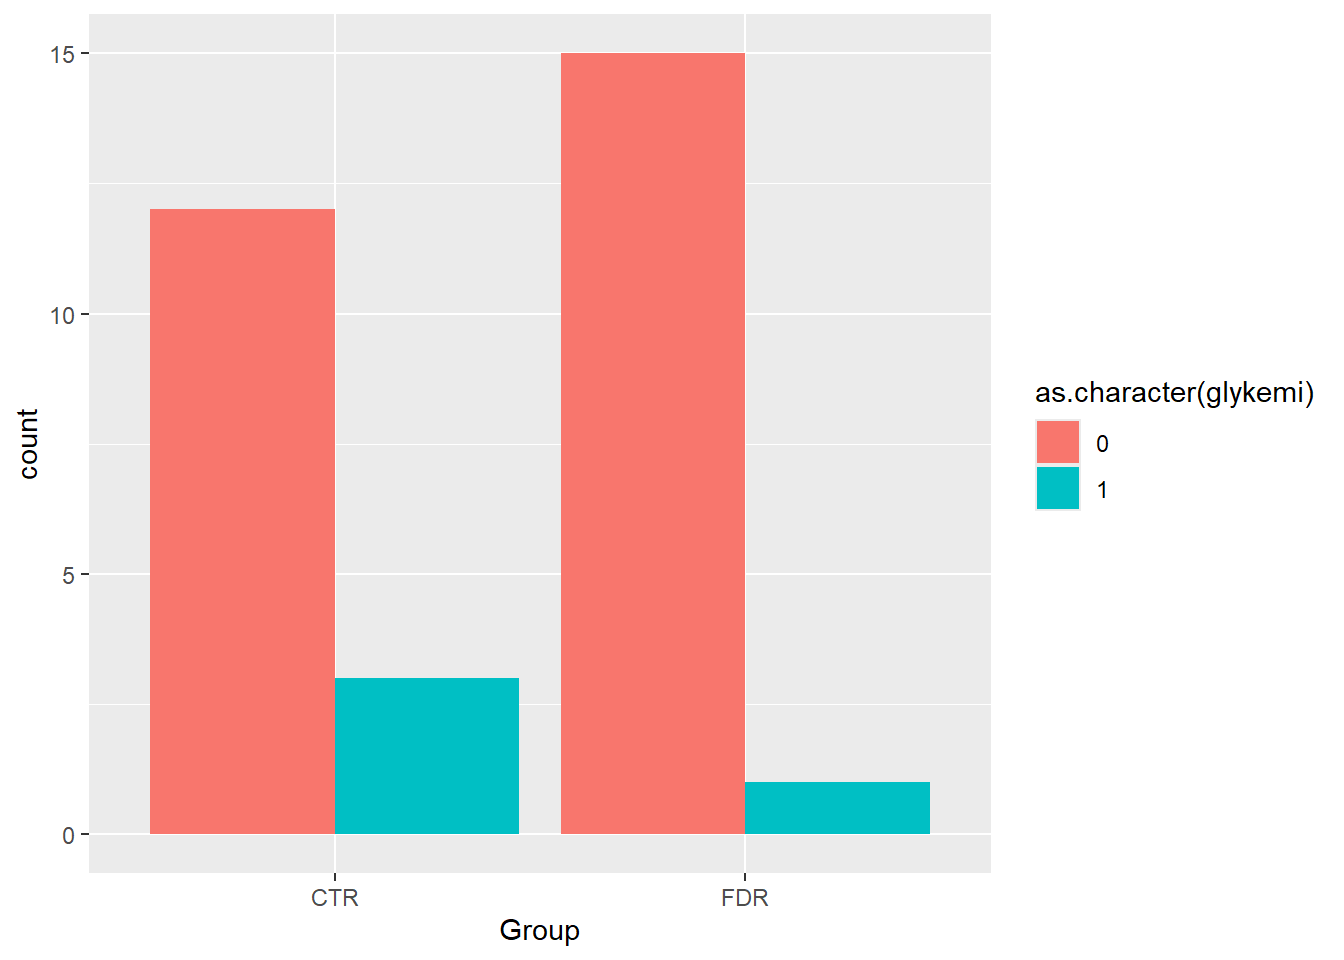
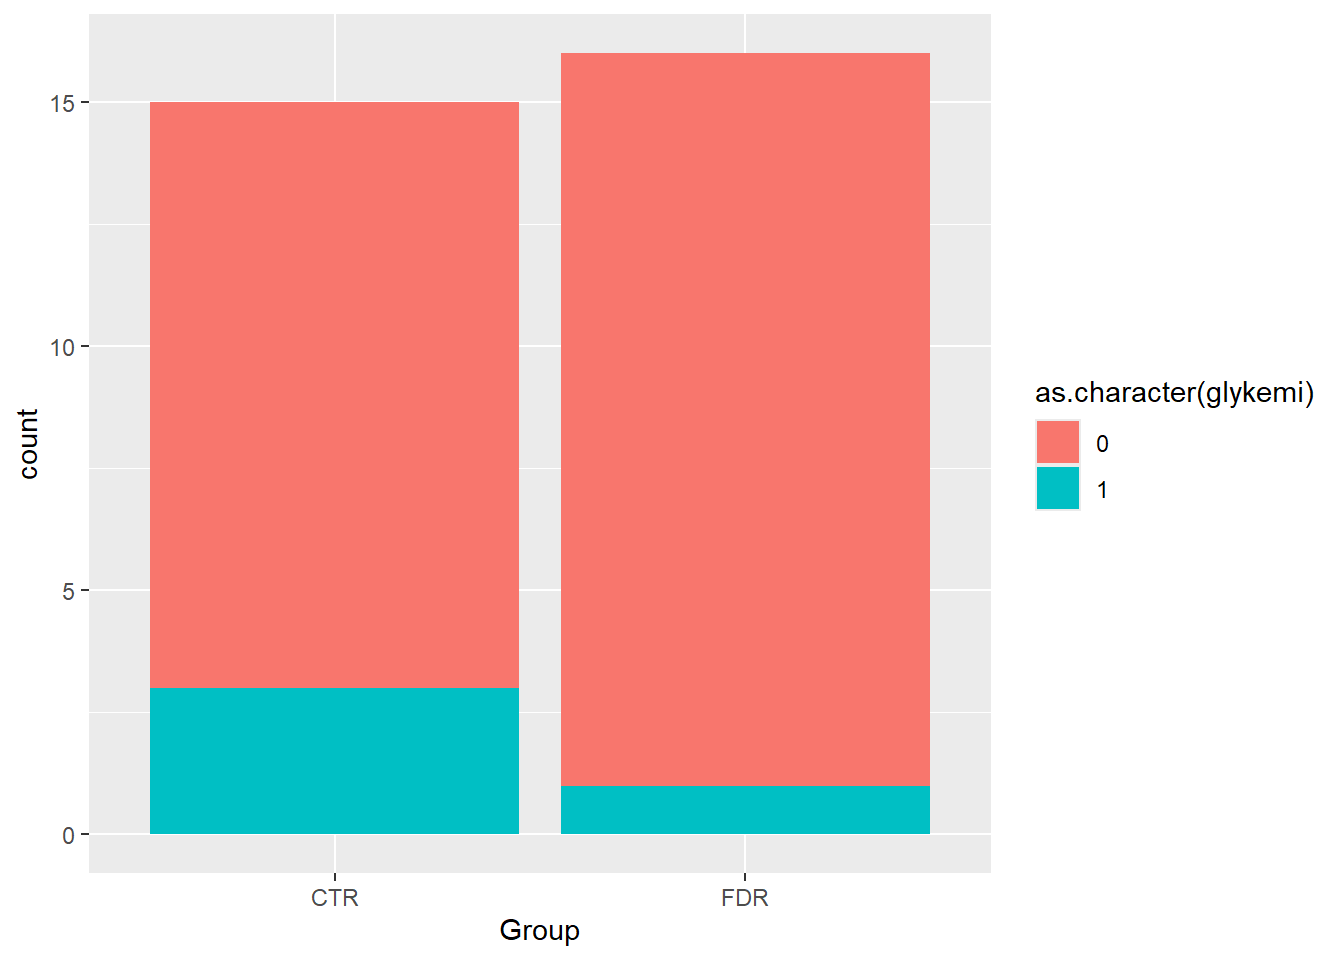
plots and graphs

diff --git a/docs/learining.html b/docs/learining.html
@@ -258,7 +258,7 @@ $ glykemi                  &lt;dbl&gt; 0, 0, 0, 0, 0, 0, 0, 0, 0, 0, 0, 0, 0, 0,
 </div>
 </div>
 <div class="cell">
-<div class="sourceCode cell-code" id="cb10"><pre class="sourceCode r code-with-copy"><code class="sourceCode r"><span id="cb10-1"><a href="#cb10-1" aria-hidden="true" tabindex="-1"></a><span class="fu">ggplot</span>(post_meal_data, <span class="fu">aes</span>(<span class="at">x =</span> BMI)) <span class="sc">+</span> </span>
+<div class="sourceCode cell-code" id="cb10"><pre class="sourceCode r code-with-copy"><code class="sourceCode r"><span id="cb10-1"><a href="#cb10-1" aria-hidden="true" tabindex="-1"></a><span class="fu">ggplot</span>(post_meal_data, <span class="fu">aes</span>(<span class="at">x =</span> BMI)) <span class="sc">+</span></span>
 <span id="cb10-2"><a href="#cb10-2" aria-hidden="true" tabindex="-1"></a>  <span class="fu">geom_histogram</span>()</span></code><button title="Copy to Clipboard" class="code-copy-button"><i class="bi"></i></button></pre></div>
 <div class="cell-output cell-output-stderr">
 <pre><code>`stat_bin()` using `bins = 30`. Pick better value with `binwidth`.</code></pre>
@@ -266,13 +266,13 @@ $ glykemi                  &lt;dbl&gt; 0, 0, 0, 0, 0, 0, 0, 0, 0, 0, 0, 0, 0, 0,
 <div class="cell-output-display">
 <div>
 <figure class="figure">
-<p><img src="learining_files/figure-html/unnamed-chunk-5-1.png" class="img-fluid figure-img" width="672"></p>
+<p><img src="learining_files/figure-html/unnamed-chunk-6-1.png" class="img-fluid figure-img" width="672"></p>
 </figure>
 </div>
 </div>
 </div>
 <div class="cell">
-<div class="sourceCode cell-code" id="cb12"><pre class="sourceCode r code-with-copy"><code class="sourceCode r"><span id="cb12-1"><a href="#cb12-1" aria-hidden="true" tabindex="-1"></a><span class="fu">ggplot</span>(post_meal_data, <span class="fu">aes</span>(<span class="at">x =</span> BMI)) <span class="sc">+</span> </span>
+<div class="sourceCode cell-code" id="cb12"><pre class="sourceCode r code-with-copy"><code class="sourceCode r"><span id="cb12-1"><a href="#cb12-1" aria-hidden="true" tabindex="-1"></a><span class="fu">ggplot</span>(post_meal_data, <span class="fu">aes</span>(<span class="at">x =</span> BMI)) <span class="sc">+</span></span>
 <span id="cb12-2"><a href="#cb12-2" aria-hidden="true" tabindex="-1"></a>  <span class="fu">geom_histogram</span>()</span></code><button title="Copy to Clipboard" class="code-copy-button"><i class="bi"></i></button></pre></div>
 <div class="cell-output cell-output-stderr">
 <pre><code>`stat_bin()` using `bins = 30`. Pick better value with `binwidth`.</code></pre>
@@ -292,7 +292,7 @@ Figure&nbsp;1: Distribution of BMI
 </div>
 <p><a href="#fig-bmi-histo" class="quarto-xref">Figure&nbsp;1</a></p>
 <div class="cell">
-<div class="sourceCode cell-code" id="cb14"><pre class="sourceCode r code-with-copy"><code class="sourceCode r"><span id="cb14-1"><a href="#cb14-1" aria-hidden="true" tabindex="-1"></a><span class="fu">ggplot</span>(post_meal_data, <span class="fu">aes</span>(<span class="at">x =</span> glykemi)) <span class="sc">+</span> </span>
+<div class="sourceCode cell-code" id="cb14"><pre class="sourceCode r code-with-copy"><code class="sourceCode r"><span id="cb14-1"><a href="#cb14-1" aria-hidden="true" tabindex="-1"></a><span class="fu">ggplot</span>(post_meal_data, <span class="fu">aes</span>(<span class="at">x =</span> glykemi)) <span class="sc">+</span></span>
 <span id="cb14-2"><a href="#cb14-2" aria-hidden="true" tabindex="-1"></a>  <span class="fu">geom_bar</span>()</span></code><button title="Copy to Clipboard" class="code-copy-button"><i class="bi"></i></button></pre></div>
 <div class="cell-output-display">
 <div id="fig-glykemi-bar" class="quarto-float quarto-figure quarto-figure-center anchored">
@@ -309,7 +309,8 @@ Figure&nbsp;2: Glykemi
 </div>
 <div class="cell">
 <div class="sourceCode cell-code" id="cb15"><pre class="sourceCode r code-with-copy"><code class="sourceCode r"><span id="cb15-1"><a href="#cb15-1" aria-hidden="true" tabindex="-1"></a>post_meal_data <span class="sc">|&gt;</span></span>
-<span id="cb15-2"><a href="#cb15-2" aria-hidden="true" tabindex="-1"></a>  <span class="fu">ggplot</span>(<span class="fu">aes</span>(<span class="at">x =</span> Group, <span class="at">fill =</span> glykemi)) <span class="sc">+</span> <span class="fu">geom_bar</span>()</span></code><button title="Copy to Clipboard" class="code-copy-button"><i class="bi"></i></button></pre></div>
+<span id="cb15-2"><a href="#cb15-2" aria-hidden="true" tabindex="-1"></a>  <span class="fu">ggplot</span>(<span class="fu">aes</span>(<span class="at">x =</span> Group, <span class="at">fill =</span> glykemi)) <span class="sc">+</span></span>
+<span id="cb15-3"><a href="#cb15-3" aria-hidden="true" tabindex="-1"></a>  <span class="fu">geom_bar</span>()</span></code><button title="Copy to Clipboard" class="code-copy-button"><i class="bi"></i></button></pre></div>
 <div class="cell-output cell-output-stderr">
 <pre><code>Warning: The following aesthetics were dropped during statistical transformation: fill.
 ℹ This can happen when ggplot fails to infer the correct grouping structure in
@@ -320,31 +321,31 @@ Figure&nbsp;2: Glykemi
 <div class="cell-output-display">
 <div>
 <figure class="figure">
-<p><img src="learining_files/figure-html/unnamed-chunk-8-1.png" class="img-fluid figure-img" width="672"></p>
-</figure>
-</div>
-</div>
-</div>
-<div class="cell">
-<div class="sourceCode cell-code" id="cb17"><pre class="sourceCode r code-with-copy"><code class="sourceCode r"><span id="cb17-1"><a href="#cb17-1" aria-hidden="true" tabindex="-1"></a>post_meal_data <span class="sc">|&gt;</span></span>
-<span id="cb17-2"><a href="#cb17-2" aria-hidden="true" tabindex="-1"></a>  <span class="fu">ggplot</span>(<span class="fu">aes</span>(<span class="at">x =</span> Group, <span class="at">fill =</span> <span class="fu">as.character</span>(glykemi))) <span class="sc">+</span> </span>
-<span id="cb17-3"><a href="#cb17-3" aria-hidden="true" tabindex="-1"></a>  <span class="fu">geom_bar</span>()</span></code><button title="Copy to Clipboard" class="code-copy-button"><i class="bi"></i></button></pre></div>
-<div class="cell-output-display">
-<div>
-<figure class="figure">
 <p><img src="learining_files/figure-html/unnamed-chunk-9-1.png" class="img-fluid figure-img" width="672"></p>
 </figure>
 </div>
 </div>
 </div>
 <div class="cell">
-<div class="sourceCode cell-code" id="cb18"><pre class="sourceCode r code-with-copy"><code class="sourceCode r"><span id="cb18-1"><a href="#cb18-1" aria-hidden="true" tabindex="-1"></a>post_meal_data <span class="sc">|&gt;</span></span>
-<span id="cb18-2"><a href="#cb18-2" aria-hidden="true" tabindex="-1"></a>  <span class="fu">ggplot</span>(<span class="fu">aes</span>(<span class="at">x =</span> Group, <span class="at">fill =</span> <span class="fu">as.character</span>(glykemi))) <span class="sc">+</span> </span>
-<span id="cb18-3"><a href="#cb18-3" aria-hidden="true" tabindex="-1"></a>  <span class="fu">geom_bar</span>(<span class="at">position =</span> <span class="fu">position_dodge</span>())</span></code><button title="Copy to Clipboard" class="code-copy-button"><i class="bi"></i></button></pre></div>
+<div class="sourceCode cell-code" id="cb17"><pre class="sourceCode r code-with-copy"><code class="sourceCode r"><span id="cb17-1"><a href="#cb17-1" aria-hidden="true" tabindex="-1"></a>post_meal_data <span class="sc">|&gt;</span></span>
+<span id="cb17-2"><a href="#cb17-2" aria-hidden="true" tabindex="-1"></a>  <span class="fu">ggplot</span>(<span class="fu">aes</span>(<span class="at">x =</span> Group, <span class="at">fill =</span> <span class="fu">as.character</span>(glykemi))) <span class="sc">+</span></span>
+<span id="cb17-3"><a href="#cb17-3" aria-hidden="true" tabindex="-1"></a>  <span class="fu">geom_bar</span>()</span></code><button title="Copy to Clipboard" class="code-copy-button"><i class="bi"></i></button></pre></div>
 <div class="cell-output-display">
 <div>
 <figure class="figure">
 <p><img src="learining_files/figure-html/unnamed-chunk-10-1.png" class="img-fluid figure-img" width="672"></p>
+</figure>
+</div>
+</div>
+</div>
+<div class="cell">
+<div class="sourceCode cell-code" id="cb18"><pre class="sourceCode r code-with-copy"><code class="sourceCode r"><span id="cb18-1"><a href="#cb18-1" aria-hidden="true" tabindex="-1"></a>post_meal_data <span class="sc">|&gt;</span></span>
+<span id="cb18-2"><a href="#cb18-2" aria-hidden="true" tabindex="-1"></a>  <span class="fu">ggplot</span>(<span class="fu">aes</span>(<span class="at">x =</span> Group, <span class="at">fill =</span> <span class="fu">as.character</span>(glykemi))) <span class="sc">+</span></span>
+<span id="cb18-3"><a href="#cb18-3" aria-hidden="true" tabindex="-1"></a>  <span class="fu">geom_bar</span>(<span class="at">position =</span> <span class="fu">position_dodge</span>())</span></code><button title="Copy to Clipboard" class="code-copy-button"><i class="bi"></i></button></pre></div>
+<div class="cell-output-display">
+<div>
+<figure class="figure">
+<p><img src="learining_files/figure-html/unnamed-chunk-11-1.png" class="img-fluid figure-img" width="672"></p>
 </figure>
 </div>
 </div>
@@ -354,22 +355,11 @@ Figure&nbsp;2: Glykemi
 <section id="putting-two-plots-side-by-side" class="level2">
 <h2 class="anchored" data-anchor-id="putting-two-plots-side-by-side">Putting two plots side by side</h2>
 <div class="cell">
-<div class="sourceCode cell-code" id="cb19"><pre class="sourceCode r code-with-copy"><code class="sourceCode r"><span id="cb19-1"><a href="#cb19-1" aria-hidden="true" tabindex="-1"></a><span class="fu">ggplot</span>(post_meal_data, <span class="fu">aes</span>(<span class="at">x =</span> BMI)) <span class="sc">+</span> </span>
+<div class="sourceCode cell-code" id="cb19"><pre class="sourceCode r code-with-copy"><code class="sourceCode r"><span id="cb19-1"><a href="#cb19-1" aria-hidden="true" tabindex="-1"></a><span class="fu">ggplot</span>(post_meal_data, <span class="fu">aes</span>(<span class="at">x =</span> BMI)) <span class="sc">+</span></span>
 <span id="cb19-2"><a href="#cb19-2" aria-hidden="true" tabindex="-1"></a>  <span class="fu">geom_histogram</span>()</span></code><button title="Copy to Clipboard" class="code-copy-button"><i class="bi"></i></button></pre></div>
 <div class="cell-output cell-output-stderr">
 <pre><code>`stat_bin()` using `bins = 30`. Pick better value with `binwidth`.</code></pre>
 </div>
-<div class="cell-output-display">
-<div>
-<figure class="figure">
-<p><img src="learining_files/figure-html/unnamed-chunk-11-1.png" class="img-fluid figure-img" width="672"></p>
-</figure>
-</div>
-</div>
-</div>
-<div class="cell">
-<div class="sourceCode cell-code" id="cb21"><pre class="sourceCode r code-with-copy"><code class="sourceCode r"><span id="cb21-1"><a href="#cb21-1" aria-hidden="true" tabindex="-1"></a><span class="fu">ggplot</span>(post_meal_data, <span class="fu">aes</span>(<span class="at">x =</span> glykemi)) <span class="sc">+</span> </span>
-<span id="cb21-2"><a href="#cb21-2" aria-hidden="true" tabindex="-1"></a>  <span class="fu">geom_bar</span>()</span></code><button title="Copy to Clipboard" class="code-copy-button"><i class="bi"></i></button></pre></div>
 <div class="cell-output-display">
 <div>
 <figure class="figure">
@@ -378,12 +368,23 @@ Figure&nbsp;2: Glykemi
 </div>
 </div>
 </div>
-<div class="sourceCode cell-code" id="cb22"><pre class="sourceCode r code-with-copy"><code class="sourceCode r"><span id="cb22-1"><a href="#cb22-1" aria-hidden="true" tabindex="-1"></a><span class="fu">ggplot</span>(post_meal_data, <span class="fu">aes</span>(<span class="at">x =</span> BMI)) <span class="sc">+</span> </span>
+<div class="cell">
+<div class="sourceCode cell-code" id="cb21"><pre class="sourceCode r code-with-copy"><code class="sourceCode r"><span id="cb21-1"><a href="#cb21-1" aria-hidden="true" tabindex="-1"></a><span class="fu">ggplot</span>(post_meal_data, <span class="fu">aes</span>(<span class="at">x =</span> glykemi)) <span class="sc">+</span></span>
+<span id="cb21-2"><a href="#cb21-2" aria-hidden="true" tabindex="-1"></a>  <span class="fu">geom_bar</span>()</span></code><button title="Copy to Clipboard" class="code-copy-button"><i class="bi"></i></button></pre></div>
+<div class="cell-output-display">
+<div>
+<figure class="figure">
+<p><img src="learining_files/figure-html/unnamed-chunk-13-1.png" class="img-fluid figure-img" width="672"></p>
+</figure>
+</div>
+</div>
+</div>
+<div class="sourceCode cell-code" id="cb22"><pre class="sourceCode r code-with-copy"><code class="sourceCode r"><span id="cb22-1"><a href="#cb22-1" aria-hidden="true" tabindex="-1"></a><span class="fu">ggplot</span>(post_meal_data, <span class="fu">aes</span>(<span class="at">x =</span> BMI)) <span class="sc">+</span></span>
 <span id="cb22-2"><a href="#cb22-2" aria-hidden="true" tabindex="-1"></a>  <span class="fu">geom_histogram</span>()</span></code><button title="Copy to Clipboard" class="code-copy-button"><i class="bi"></i></button></pre></div>
 <div class="cell-output cell-output-stderr">
 <pre><code>`stat_bin()` using `bins = 30`. Pick better value with `binwidth`.</code></pre>
 </div>
-<div class="sourceCode cell-code" id="cb24"><pre class="sourceCode r code-with-copy"><code class="sourceCode r"><span id="cb24-1"><a href="#cb24-1" aria-hidden="true" tabindex="-1"></a><span class="fu">ggplot</span>(post_meal_data, <span class="fu">aes</span>(<span class="at">x =</span> glykemi)) <span class="sc">+</span> </span>
+<div class="sourceCode cell-code" id="cb24"><pre class="sourceCode r code-with-copy"><code class="sourceCode r"><span id="cb24-1"><a href="#cb24-1" aria-hidden="true" tabindex="-1"></a><span class="fu">ggplot</span>(post_meal_data, <span class="fu">aes</span>(<span class="at">x =</span> glykemi)) <span class="sc">+</span></span>
 <span id="cb24-2"><a href="#cb24-2" aria-hidden="true" tabindex="-1"></a>  <span class="fu">geom_bar</span>()</span></code><button title="Copy to Clipboard" class="code-copy-button"><i class="bi"></i></button></pre></div>
 <div id="fig-bmi-glycemia" class="quarto-layout-panel">
 <figure class="quarto-float quarto-float-fig figure">
@@ -420,6 +421,56 @@ Figure&nbsp;3: BMI and glycemia, side by side
 </figcaption>
 </figure>
 </div>
+</section>
+<section id="plotting-two-continuous-variables" class="level2">
+<h2 class="anchored" data-anchor-id="plotting-two-continuous-variables">Plotting two continuous variables</h2>
+<div class="cell">
+<div class="sourceCode cell-code" id="cb25"><pre class="sourceCode r code-with-copy"><code class="sourceCode r"><span id="cb25-1"><a href="#cb25-1" aria-hidden="true" tabindex="-1"></a><span class="fu">ggplot</span>(post_meal_data, <span class="fu">aes</span>(<span class="at">x =</span> BMI, <span class="at">y =</span> auc_pg)) <span class="sc">+</span></span>
+<span id="cb25-2"><a href="#cb25-2" aria-hidden="true" tabindex="-1"></a>  <span class="fu">geom_point</span>()</span></code><button title="Copy to Clipboard" class="code-copy-button"><i class="bi"></i></button></pre></div>
+<div class="cell-output-display">
+<div>
+<figure class="figure">
+<p><img src="learining_files/figure-html/unnamed-chunk-14-1.png" class="img-fluid figure-img" width="672"></p>
+</figure>
+</div>
+</div>
+</div>
+<div class="cell">
+<div class="sourceCode cell-code" id="cb26"><pre class="sourceCode r code-with-copy"><code class="sourceCode r"><span id="cb26-1"><a href="#cb26-1" aria-hidden="true" tabindex="-1"></a><span class="fu">ggplot</span>(post_meal_data, <span class="fu">aes</span>(<span class="at">x =</span> BMI, <span class="at">y =</span> auc_pg)) <span class="sc">+</span></span>
+<span id="cb26-2"><a href="#cb26-2" aria-hidden="true" tabindex="-1"></a>  <span class="fu">geom_point</span>() <span class="sc">+</span></span>
+<span id="cb26-3"><a href="#cb26-3" aria-hidden="true" tabindex="-1"></a>  <span class="fu">geom_smooth</span>()</span></code><button title="Copy to Clipboard" class="code-copy-button"><i class="bi"></i></button></pre></div>
+<div class="cell-output cell-output-stderr">
+<pre><code>`geom_smooth()` using method = 'loess' and formula = 'y ~ x'</code></pre>
+</div>
+<div class="cell-output-display">
+<div>
+<figure class="figure">
+<p><img src="learining_files/figure-html/unnamed-chunk-15-1.png" class="img-fluid figure-img" width="672"></p>
+</figure>
+</div>
+</div>
+</div>
+<div class="cell">
+<div class="sourceCode cell-code" id="cb28"><pre class="sourceCode r code-with-copy"><code class="sourceCode r"><span id="cb28-1"><a href="#cb28-1" aria-hidden="true" tabindex="-1"></a><span class="fu">ggplot</span>(post_meal_data, <span class="fu">aes</span>(<span class="at">x =</span> BMI, <span class="at">y =</span> auc_pg)) <span class="sc">+</span></span>
+<span id="cb28-2"><a href="#cb28-2" aria-hidden="true" tabindex="-1"></a>  <span class="fu">geom_point</span>() <span class="sc">+</span></span>
+<span id="cb28-3"><a href="#cb28-3" aria-hidden="true" tabindex="-1"></a>  <span class="fu">geom_smooth</span>()</span></code><button title="Copy to Clipboard" class="code-copy-button"><i class="bi"></i></button></pre></div>
+<div class="cell-output cell-output-stderr">
+<pre><code>`geom_smooth()` using method = 'loess' and formula = 'y ~ x'</code></pre>
+</div>
+<div class="cell-output-display">
+<div id="fig-bmi-auc-pg" class="quarto-float quarto-figure quarto-figure-center anchored">
+<figure class="quarto-float quarto-float-fig figure">
+<div aria-describedby="fig-bmi-auc-pg-caption-0ceaefa1-69ba-4598-a22c-09a6ac19f8ca">
+<img src="learining_files/figure-html/fig-bmi-auc-pg-1.png" class="img-fluid figure-img" width="672">
+</div>
+<figcaption class="quarto-float-caption-bottom quarto-float-caption quarto-float-fig" id="fig-bmi-auc-pg-caption-0ceaefa1-69ba-4598-a22c-09a6ac19f8ca">
+Figure&nbsp;4: Scatterplot of BMI and the area under the curve for glucose.
+</figcaption>
+</figure>
+</div>
+</div>
+</div>
+<p>```</p>
 </section>
 
 </main>
